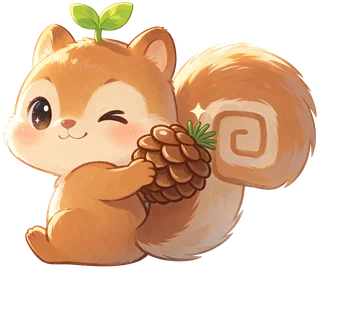
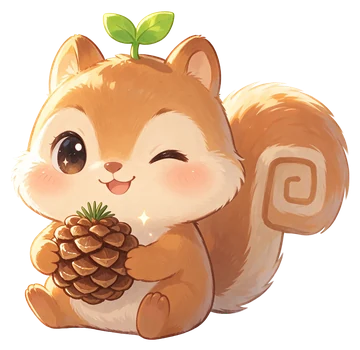
Redraw Backy hugging a pine cone so the pose reads clearly
The old stash pose looked back over its shoulder while tucking the cone into
its tail, so it was hard to tell which way the squirrel faced. It now sits in a
three-quarter front view, hugging the cone against its chest, tail behind it.
Same character and anime style (LibTV, Doubao Seedream). Shell cache v105 so
installed apps fetch the new image.

diff --git a/sw.js b/sw.js
@@ -1,5 +1,5 @@
 // No API bodies, keys, account data or generated responses enter a cache.
-const CACHE='knowledge-review-shell-v104';
+const CACHE='knowledge-review-shell-v105';
 const SHELL=['/','/m/','/m/mobile.css','/m/wide.css','/styles.css','/app.js','/chat-ui.js','/chat-store.js','/providers.js','/knowledge-ui.js','/knowledge-store.js','/review-ui.js','/review-store.js','/device-ui.js','/cloud-ui.js','/model-help.js','/local-space.js','/snapshot-merge.js','/auth.js','/auth-ui.js','/admin-ui.js','/modules.js','/module-icons.js','/discover-ui.js','/recommend-data.js','/starter-content.js','/habit.js','/pet.js','/pet-physics.js','/splash.js','/bookshelf.js','/achievements.js','/badges-ui.js','/scenes.js','/profile-ui.js','/mindmap-canvas.js','/shop.js','/shop-ui.js','/journey.js','/journey-ui.js','/garden.js','/garden-ui.js','/sfx.js','/tips.js','/member-ui.js','/calendar-ui.js','/reminders.js','/push-ui.js','/qr.js','/friends-ui.js','/fsrs.js','/onboarding.js','/tour.js','/square-ui.js','/i18n.js','/i18n/zh-TW.js','/i18n/ja.js','/i18n/ko.js','/i18n/ms.js','/i18n/es.js','/i18n/fr.js','/i18n/pt.js','/i18n/de.js','/memory-viz.js','/memory-ui.js','/docx.js','/google-docs.js','/graph-view.js','/mindmap.js','/viz-edit.js','/theme.js','/fonts/SmileySans-Oblique.woff2','/illustrations/home-desk.webp','/illustrations/pet-nest.webp','/illustrations/home-hero.webp','/illustrations/review-hero.webp','/illustrations/mascot-wave.webp','/illustrations/mascot-head.webp','/illustrations/mascot-think.webp','/illustrations/mascot-cheer.webp','/illustrations/mascot-sleep.webp','/illustrations/mascot-shy.webp','/illustrations/mascot-stash.webp','/illustrations/mascot-lifted.webp','/illustrations/mascot-walk.webp','/illustrations/pine-jar.webp',...['first','learned','streak','reviews','cones','polymath','early','night','books','month'].map(name => '/illustrations/badges/' + name + '.webp'),'/illustrations/icon-coding.webp','/illustrations/icon-english.webp','/illustrations/icon-work.webp','/illustrations/icon-life.webp',...['store','feed','streak','beanstalk','shop','vip','report','frame','sound-on','sound-off','video','book','guide'].map(name => '/illustrations/world/' + name + '.webp')];
 self.addEventListener('install',event=>event.waitUntil(caches.open(CACHE).then(cache=>cache.addAll(SHELL)).then(()=>self.skipWaiting())));
 self.addEventListener('activate',event=>event.waitUntil(caches.keys().then(keys=>Promise.all(keys.filter(key=>key!==CACHE).map(key=>caches.delete(key)))).then(()=>self.clients.claim())));
